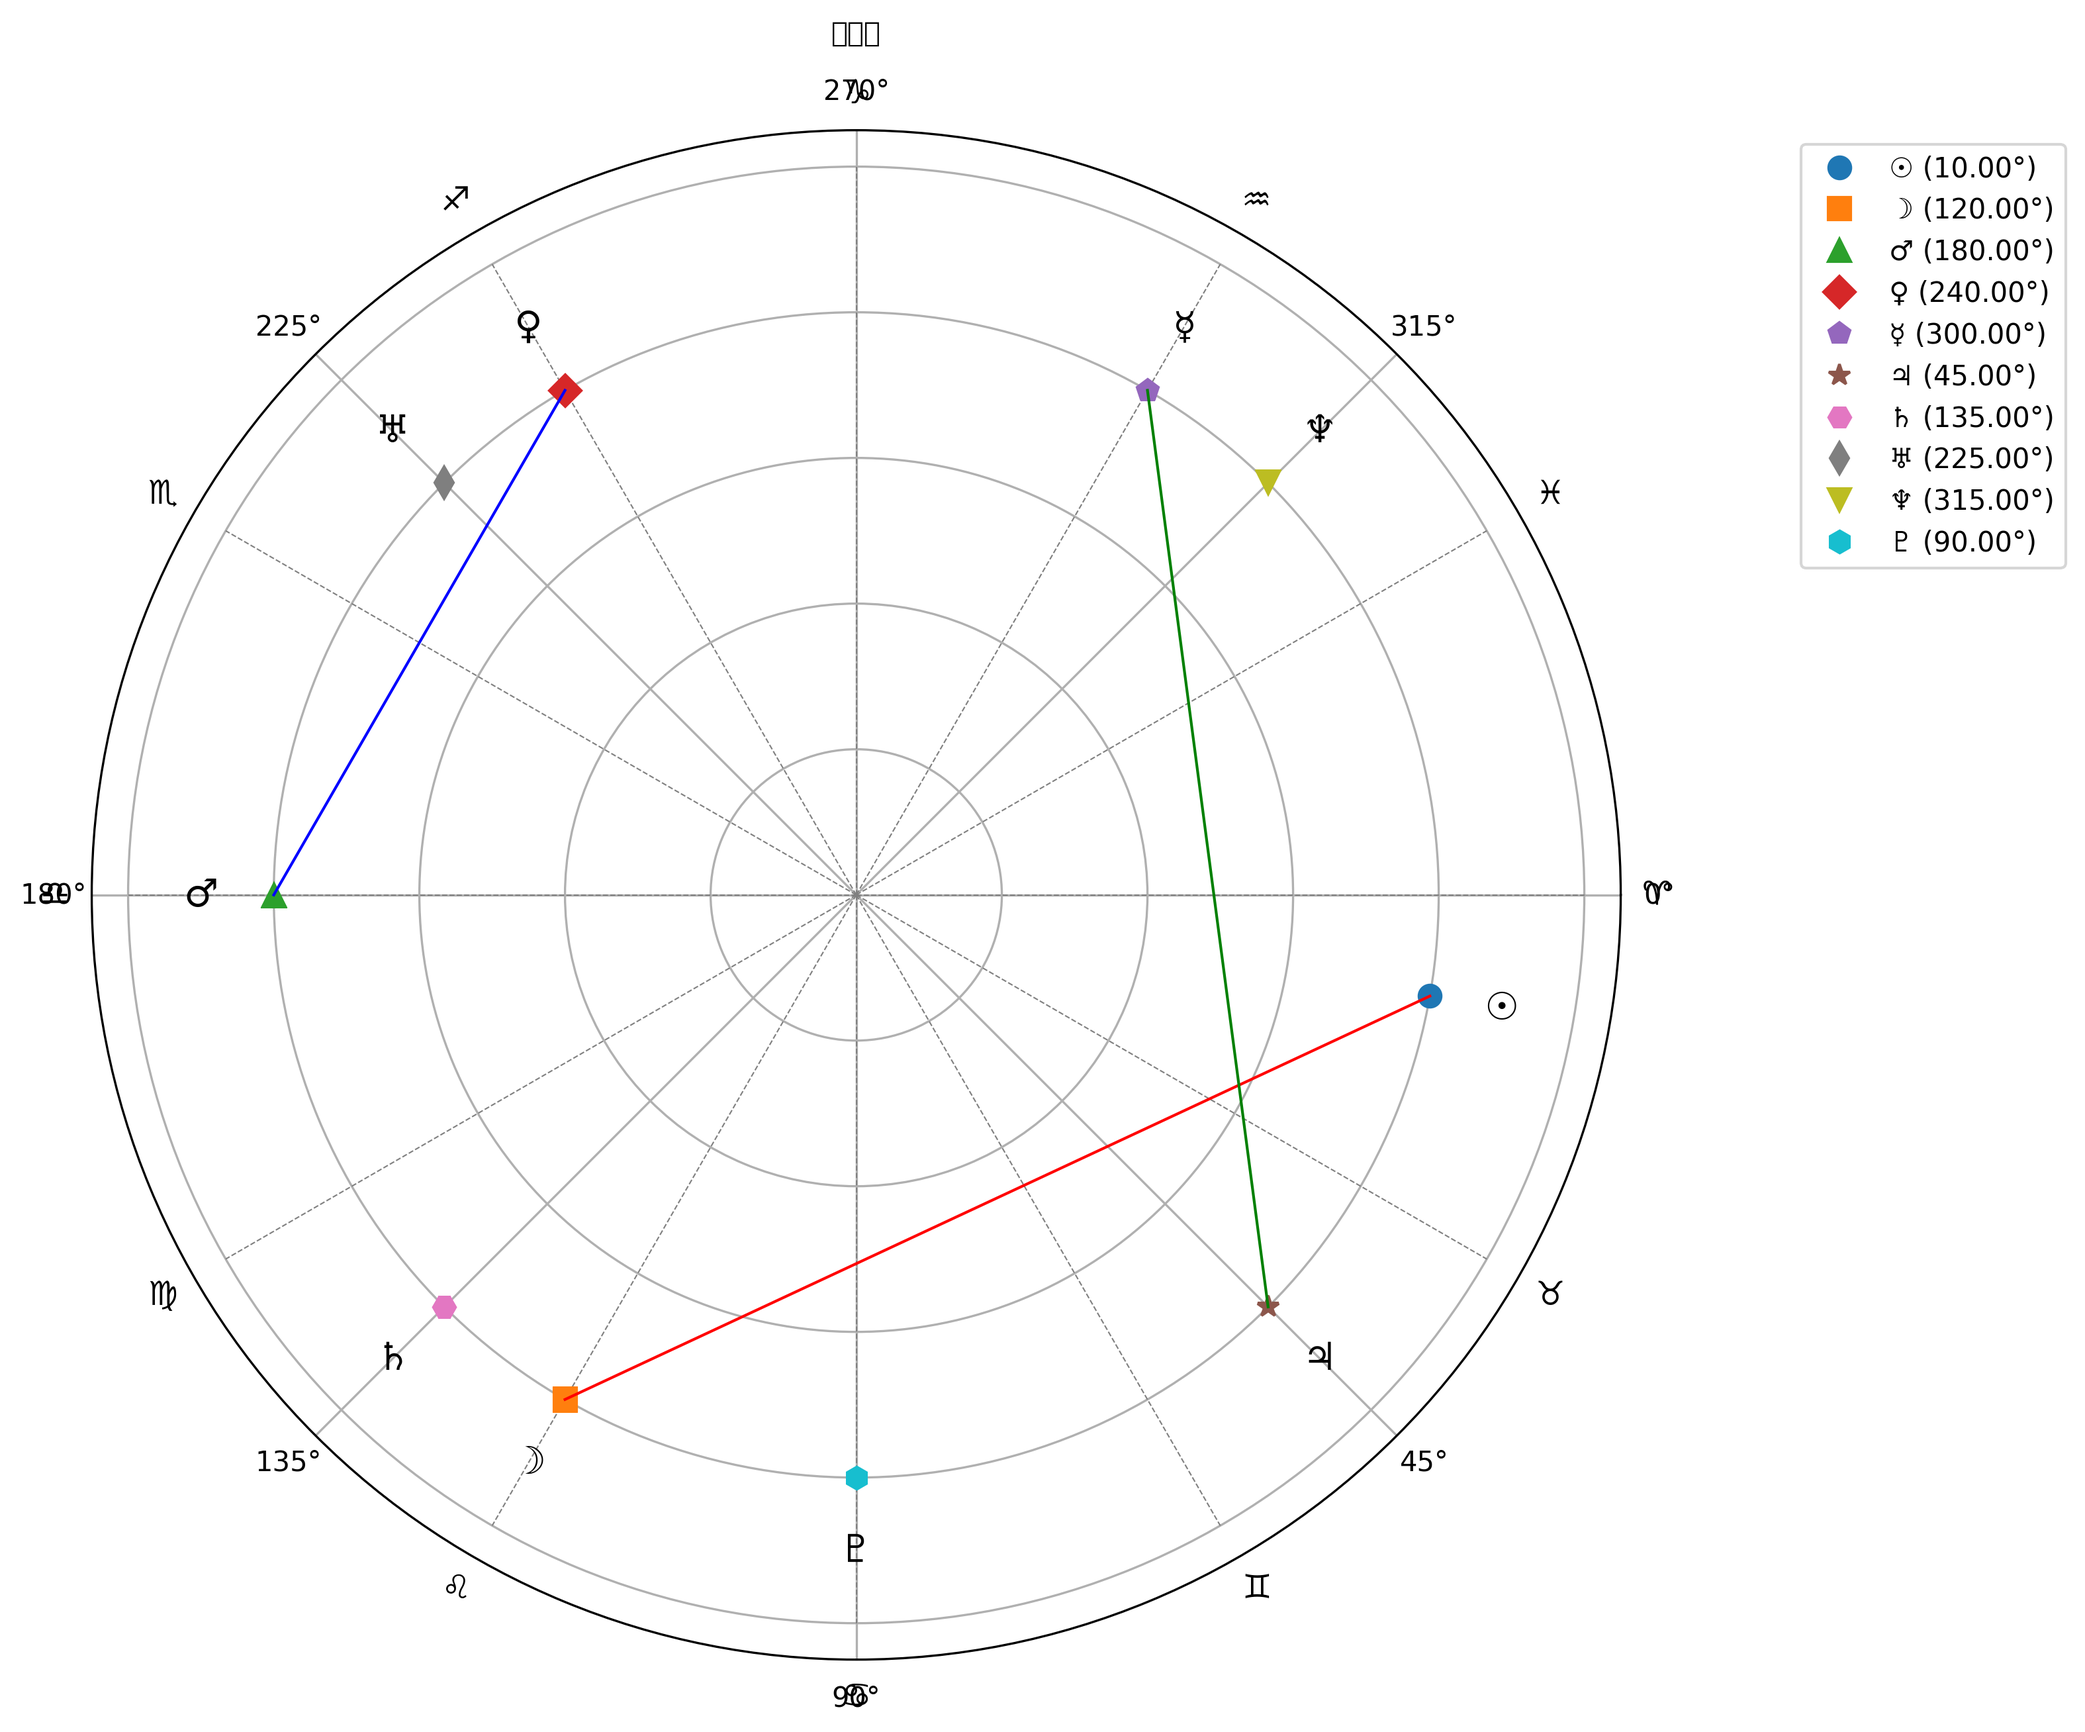
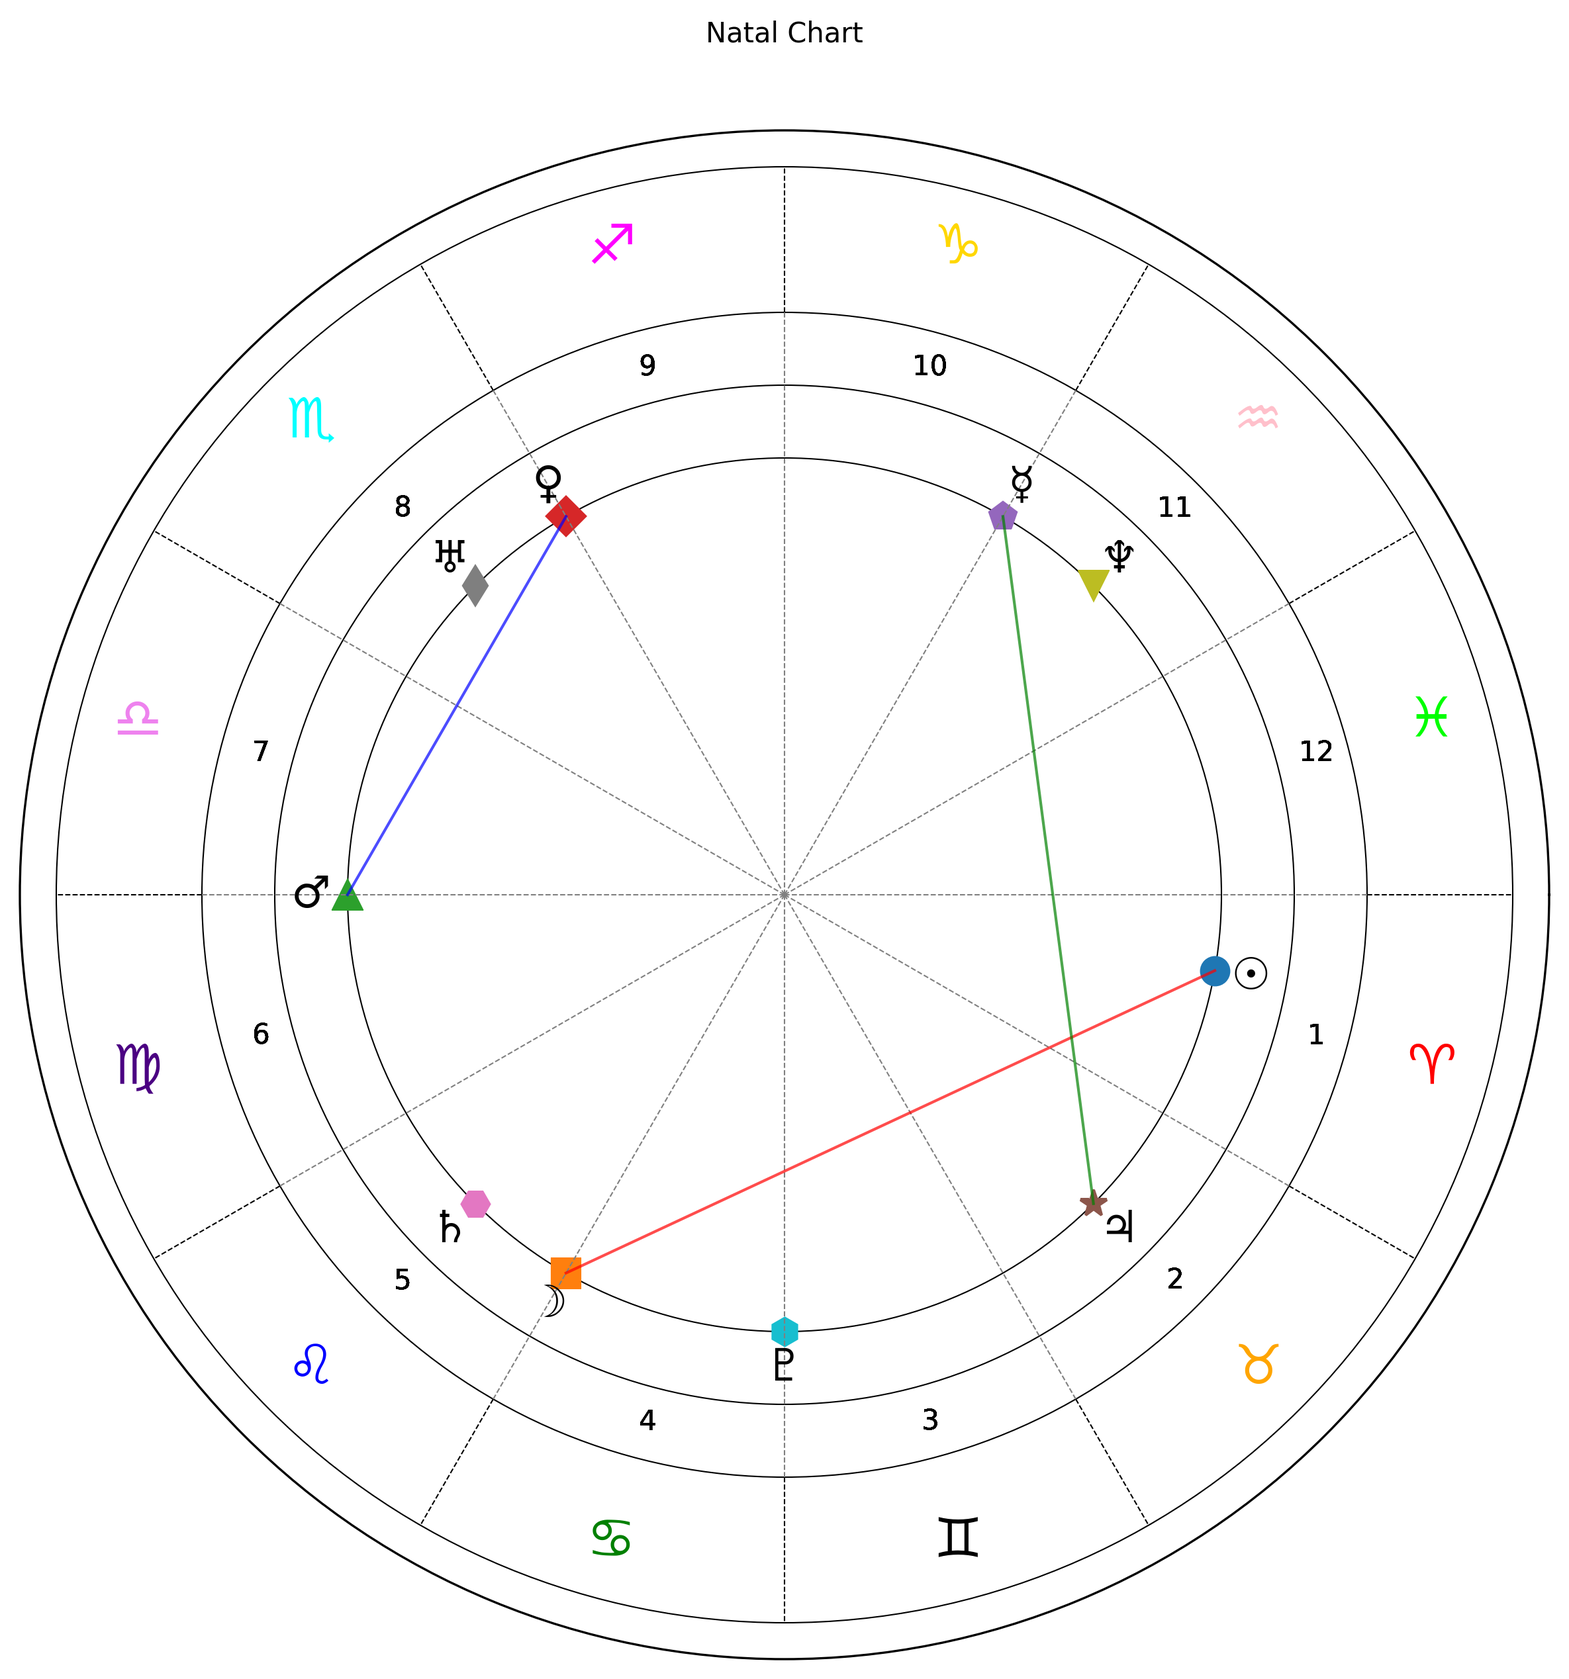
更新描述文件，添加相位線邏輯

diff --git a/src/visualization.py b/src/visualization.py
@@ -2,88 +2,129 @@ import os
 import matplotlib.pyplot as plt
 import numpy as np
 from matplotlib import rcParams
+from matplotlib.patches import Circle
+from matplotlib import font_manager as fm
 import matplotlib
 
 matplotlib.use('Agg')  # 使用非交互式后端
 
-# 尝试加载自定义字体路径
+# 尝试加载 Symbola 字体
 try:
-    font_paths = [
-        os.path.join(os.path.dirname(__file__), "fonts/Symbola.ttf"),
-        os.path.join(os.path.dirname(__file__), "fonts/NotoSerifSC[wght].ttf")
-    ]
-    font_loaded = False
-    for font_path in font_paths:
-        if os.path.exists(font_path):
-            from matplotlib import font_manager as fm
-            prop = fm.FontProperties(fname=font_path)
-            rcParams['font.family'] = prop.get_name()
-            print(f"Loaded font: {prop.get_name()} from {font_path}")
-            font_loaded = True
-            break
-    if not font_loaded:
-        print("Custom fonts not found, falling back to default.")
-        rcParams['font.family'] = 'DejaVu Sans'  # 默认字体
+    font_path = os.path.join(os.path.dirname(__file__), "fonts/Symbola.ttf")
+    if os.path.exists(font_path):
+        prop = fm.FontProperties(fname=font_path)
+        rcParams['font.family'] = prop.get_name()
+        print(f"Loaded font: {prop.get_name()}")
+    else:
+        print("Symbola font not found, falling back to default.")
+        prop = fm.FontProperties(family='DejaVu Sans')  # 默认字体
 except Exception as e:
-    print(f"Error loading custom font: {e}. Using default font.")
-    rcParams['font.family'] = 'DejaVu Sans'  # 默认字体
+    print(f"Error loading font: {e}. Using default font.")
+    prop = fm.FontProperties(family='DejaVu Sans')  # 默认字体
 
 rcParams['axes.unicode_minus'] = False  # 确保负号正常显示
 
-# 占星符号 Unicode 字符
-planet_symbols = {
-    'Sun': '\u2609', 'Moon': '\u263D', 'Mercury': '\u263F',
-    'Venus': '\u2640', 'Mars': '\u2642', 'Jupiter': '\u2643',
-    'Saturn': '\u2644', 'Uranus': '\u2645', 'Neptune': '\u2646', 'Pluto': '\u2647',
-    'Asc': 'ASC', 'Desc': 'DESC', 'MC': 'MC', 'IC': 'IC'
-}
+# 黃道十二星座名称
+zodiac_signs = [
+    '\u2648', '\u2649', '\u264A', '\u264B', '\u264C', '\u264D',
+    '\u264E', '\u264F', '\u2650', '\u2651', '\u2652', '\u2653'
+]
+zodiac_names = [
+    'Aries', 'Taurus', 'Gemini', 'Cancer', 'Leo', 'Virgo',
+    'Libra', 'Scorpio', 'Sagittarius', 'Capricorn', 'Aquarius', 'Pisces'
+]
 
-def plot_natal_chart(planet_positions, output_path=None, show=True):
+def get_zodiac_sign(degree):
+    """计算度数所属的星座"""
+    index = int(degree // 30) % 12
+    return f"{zodiac_names[index]} {degree % 30:.2f}°"
+
+def get_house(degree):
+    """计算度数所属的宫位 (假设每个宫位30度分布)"""
+    return (int(degree // 30) % 12) + 1
+
+def plot_natal_chart(planet_positions, aspect_lines=None, output_path=None, show=True):
     """
-    绘制命盘图。
-    :param planet_positions: 字典，行星名称和其黄道经度
-    :param output_path: 保存图像的路径，默认为 None。如果提供路径，则保存图像到指定位置。
-    :param show: 是否显示图表，默认为 True
+    绘制带有多层同心圆的命盘图并添加表格。
     """
     try:
-        fig, ax = plt.subplots(figsize=(10, 10), subplot_kw={'projection': 'polar'})
-        ax.set_theta_zero_location('E')  # 将黄道的 0 度 (牡羊座) 设为东方
+        fig, ax = plt.subplots(figsize=(14, 10), subplot_kw={'projection': 'polar'})
+        ax.set_theta_zero_location('E')  # 将黄道的 0 度 (牡羊座) 设为东
         ax.set_theta_direction(-1)       # 逆时针排列星座
 
-        # 黄道十二星座
-        zodiac_signs = ['\u2648', '\u2649', '\u264A', '\u264B', '\u264C', '\u264D',
-                        '\u264E', '\u264F', '\u2650', '\u2651', '\u2652', '\u2653']
+        # 绘制同心圆
+        for r in [0.6, 0.7, 0.8, 1.0]:  # 半径列表
+            ax.add_patch(Circle((0, 0), r, transform=ax.transData._b, color='black', fill=False, linewidth=0.5))
+
+        # 星座符号及其角度
         zodiac_angles = np.linspace(0, 2 * np.pi, 13)[:-1]  # 每个星座的起始角度
+        angle_offset = (2 * np.pi / 12) / 2  # 偏移角度，使符号位于分割线中间
 
-        # 绘制星座分区
-        for i, (angle, sign) in enumerate(zip(zodiac_angles, zodiac_signs)):
-            color = 'yellow' if i % 2 == 0 else 'lightyellow'
-            ax.fill_betweenx([0, 1], angle, angle + np.pi / 6, color=color, alpha=0.3)
-            ax.text(angle + np.pi / 12, 1.1, sign, ha='center', va='center', fontsize=12, fontproperties=prop)
+        # 定义星座符号的颜色
+        zodiac_colors = [
+            "red", "orange", "black", "green", "blue", "indigo",
+            "violet", "cyan", "magenta", "gold", "pink", "lime"
+        ]
 
-        # 绘制宫位分区
-        house_angles = np.linspace(0, 2 * np.pi, 13)[:-1]
-        for angle in house_angles:
-            ax.plot([angle, angle], [0, 1], color='gray', linestyle='--', linewidth=0.5)
+        # 绘制星座符号（放置于空格内）
+        for angle, sign, color in zip(zodiac_angles, zodiac_signs, zodiac_colors):
+            adjusted_angle = angle + angle_offset  # 调整角度使其位于空格内
+            ax.text(adjusted_angle, 0.92, sign, ha='center', va='center', fontsize=20,
+                    fontproperties=prop, color=color)  # 符号位置
+            ax.plot([angle, angle], [0.8, 1.0], color='black', linestyle='--', linewidth=0.5)  # 星座分割线
+
+        # 绘制黄道十二宫（位于星座与行星之间）
+        houses = [f" {i}" for i in range(1, 13)]
+        for angle, house in zip(zodiac_angles, houses):
+            adjusted_angle = angle + angle_offset
+            ax.text(adjusted_angle, 0.75, house, ha='center', va='center', fontsize=10, fontproperties=prop)
 
         # 绘制行星位置
+        planet_markers = {"\u2609": 'o', "\u263D": 's', "\u2642": '^', "\u2640": 'D', "\u263F": 'p',
+                          "\u2643": '*', "\u2644": 'H', "\u2645": 'd', "\u2646": 'v', "\u2647": 'h'}
+        zodiac_degrees = {}
+        houses = {}
         for planet, position in planet_positions.items():
             theta = np.deg2rad(position)
-            ax.plot(theta, 0.8, 'o', markersize=10, label=f"{planet} ({position:.2f}\u00b0)")
-            ax.text(theta, 0.9, planet_symbols.get(planet, planet), ha='center', va='center', fontsize=14, fontproperties=prop)
+            ax.plot(theta, 0.6, planet_markers.get(planet, 'o'), markersize=10)
+            ax.text(theta, 0.65, planet, ha='center', va='center', fontsize=16, fontproperties=prop)
+            zodiac_degrees[planet] = get_zodiac_sign(position)
+            houses[planet] = get_house(position)
 
-        # 绘制行星之间的相位连线
-        planet_positions_rad = {k: np.deg2rad(v) for k, v in planet_positions.items()}
-        for planet1, theta1 in planet_positions_rad.items():
-            for planet2, theta2 in planet_positions_rad.items():
-                angle_diff = np.abs(theta1 - theta2)
-                if 0 < angle_diff < np.pi / 3:  # 例如：判断三分相
-                    ax.plot([theta1, theta2], [0.8, 0.8], color='blue', linestyle='-', alpha=0.5)
+        # 绘制宫位分区（缩小半径）
+        house_angles = np.linspace(0, 2 * np.pi, 13)[:-1]
+        for angle in house_angles:
+            ax.plot([angle, angle], [0, 0.8], color='gray', linestyle='--', linewidth=0.5)
+
+        # 绘制相位线（最内圈）
+        if aspect_lines:
+            for planet1, planet2, color in aspect_lines:
+                pos1 = np.deg2rad(planet_positions.get(planet1, 0))
+                pos2 = np.deg2rad(planet_positions.get(planet2, 0))
+                ax.plot([pos1, pos2], [0.6, 0.6], color=color, linestyle='-', linewidth=1, alpha=0.7)
+
+        # 添加表格
+        table_data = []
+        for planet, zodiac_info in zodiac_degrees.items():
+            house = houses.get(planet, '-')
+            table_data.append([planet, zodiac_info, house])
+
+        column_labels = ["Planet", "Zodiac (Degrees)", "House"]
+        table = plt.table(
+            cellText=table_data,
+            colLabels=column_labels,
+            loc='center',
+            cellLoc='center',
+            bbox=[0.8, 0.9, 0.3, 0.3]  # 表格放置在星盘的右上角
+        )
+        table.auto_set_font_size(False)
+        table.set_fontsize(8)  # 表格字体大小
+        table.auto_set_column_width(col=list(range(len(column_labels))))  # 自动调整列宽
 
         # 图表设置
-        ax.set_yticks([])  # 隐藏径向刻度
-        ax.legend(loc='upper right', bbox_to_anchor=(1.3, 1.0), fontsize=8, prop=prop)
-        ax.set_title("命盘图", va='bottom', fontsize=16, pad=30, fontproperties=prop)
+        ax.set_yticks([])
+        ax.set_xticks([])
+        ax.set_title("Natal Chart", va='bottom', fontsize=16, pad=30, fontproperties=prop)
 
         # 保存或显示图表
         if output_path:
@@ -98,10 +139,23 @@ def plot_natal_chart(planet_positions, output_path=None, show=True):
         print(f"An error occurred while plotting the natal chart: {e}")
 
 # 测试数据
-test_positions = {
-    'Sun': 295.5, 'Moon': 134.7, 'Mercury': 280.3, 'Venus': 342.6,
-    'Mars': 116.4, 'Jupiter': 71.9, 'Saturn': 345.7,
-    'Uranus': 53.3, 'Neptune': 357.5, 'Pluto': 301.5
+planet_positions = {
+    "\u2609": 10,  # 太阳
+    "\u263D": 120,  # 月亮
+    "\u2642": 180,  # 火星
+    "\u2640": 240,  # 金星
+    "\u263F": 300,  # 水星
+    "\u2643": 45,   # 木星
+    "\u2644": 135,  # 土星
+    "\u2645": 225,  # 天王星
+    "\u2646": 315,  # 海王星
+    "\u2647": 90    # 冥王星
 }
 
-plot_natal_chart(test_positions, output_path="natal_chart.png")
+aspect_lines = [
+    ("\u2609", "\u263D", "red"),
+    ("\u2642", "\u2640", "blue"),
+    ("\u263F", "\u2643", "green")
+]
+
+plot_natal_chart(planet_positions, aspect_lines, output_path="natal_chart_with_table.png", show=False)

diff --git a/src/app.py b/src/app.py
@@ -27,6 +27,28 @@ def favicon():
         return send_file(icon_path, mimetype="image/vnd.microsoft.icon")
     return '', 404
 
+# 相位线计算逻辑
+def calculate_aspects(positions):
+    """计算相位线"""
+    aspects = []
+    aspect_rules = {
+        "conjunction": 0,
+        "opposition": 180,
+        "trine": 120,
+        "square": 90
+    }
+    tolerance = 5  # 容差范围（度数）
+    for planet1, pos1 in positions.items():
+        for planet2, pos2 in positions.items():
+            if planet1 != planet2:
+                angle = abs(pos1 - pos2) % 360
+                for aspect, target_angle in aspect_rules.items():
+                    if abs(angle - target_angle) <= tolerance:
+                        color = {"conjunction": "red", "opposition": "blue",
+                                 "trine": "green", "square": "orange"}.get(aspect, "black")
+                        aspects.append((planet1, planet2, color))
+    return aspects
+
 @app.route("/generate-chart", methods=["POST"])
 def generate_chart():
     if not request.is_json:
@@ -53,14 +75,17 @@ def generate_chart():
     try:
         positions = calculate_planet_positions(year, month, day, hour, minute)
         logger.info(f"Calculated positions: {positions}")
+
+        # 计算相位线
+        aspect_lines = calculate_aspects(positions)
     except Exception as e:
-        logger.error(f"Error calculating positions: {e}")
+        logger.error(f"Error calculating positions or aspects: {e}")
         return jsonify({"error": "Error occurred during calculation."}), 500
 
     output_filename = f"natal_chart_{uuid.uuid4().hex}.png"
     output_path = os.path.join(output_folder, output_filename)
     try:
-        plot_natal_chart(positions, output_path=output_path, show=False)
+        plot_natal_chart(positions, aspect_lines=aspect_lines, output_path=output_path, show=False)
         logger.info(f"Chart saved successfully to: {output_path}")
     except Exception as e:
         logger.error(f"Error saving chart: {e}")
@@ -87,19 +112,23 @@ def serve_output_file(filename):
 
 @app.route("/ai-plugin.json")
 def serve_ai_plugin():
-    plugin_path = os.path.join(os.path.dirname(__file__), "ai-plugin.json")
-    if os.path.exists(plugin_path):
-        return send_file(plugin_path, mimetype="application/json")
-    logger.error("ai-plugin.json file not found")
-    return jsonify({"error": "ai-plugin.json file not found"}), 404
+    return serve_static_file("ai-plugin.json", "application/json")
 
 @app.route("/openapi.json")
 def serve_openapi():
-    openapi_path = os.path.join(os.path.dirname(__file__), "openapi.json")
-    if os.path.exists(openapi_path):
-        return send_file(openapi_path, mimetype="application/json")
-    logger.error("openapi.json file not found")
-    return jsonify({"error": "openapi.json file not found"}), 404
+    return serve_static_file("openapi.json", "application/json")
+
+@app.route("/privacy-policy")
+def privacy_policy():
+    return serve_static_file("privacy-policy.html", "text/html")
+
+# 通用静态文件处理器
+def serve_static_file(filename, mimetype):
+    file_path = os.path.join(os.path.dirname(__file__), filename)
+    if os.path.exists(file_path):
+        return send_file(file_path, mimetype=mimetype)
+    logger.error(f"{filename} file not found")
+    return jsonify({"error": f"{filename} not found"}), 404
 
 def clean_output_folder(folder_path, max_age_seconds=3600):
     folder_path = os.path.abspath(folder_path)
@@ -114,11 +143,3 @@ if __name__ == "__main__":
     port = int(os.environ.get("PORT", 5000))
     logger.info(f"Current working directory: {os.getcwd()}")
     app.run(host="0.0.0.0", port=port)
-
-@app.route("/privacy-policy")
-def privacy_policy():
-    policy_path = os.path.join(os.path.dirname(__file__), "privacy-policy.html")
-    if os.path.exists(policy_path):
-        return send_file(policy_path, mimetype="text/html")
-    logger.error("Privacy policy file not found")
-    return jsonify({"error": "Privacy policy not found"}), 404
